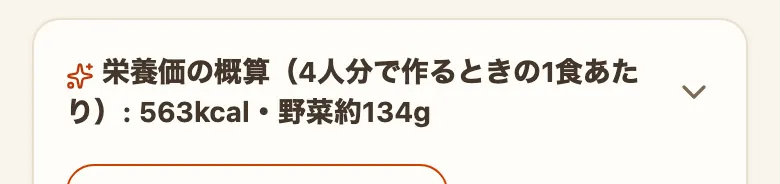
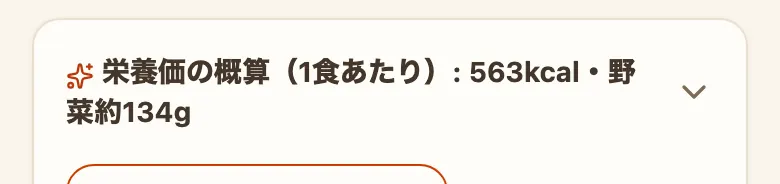
「1食あたり」から人数分の繰り返しを外す＋原価の注記から「これより高くなります」を省く＋長い説明を箇条書きに（便KN）
オーナーの書き溜め3件。

① レシピ詳細「◯人分で作るときの1食あたり」→「1食あたり」
   食費（detail.pricePerServing）と栄養の要約（nutrition.summaryLabel）の両方。
   人数分は同じ画面に残っている（390×844で実測: 1食あたりの行 y=362 /
   人数ステッパー「2人分」y=520 / 「登録: 2人分」y=574。スクロールなしで3つとも見える）。

② 「実際はこれより高くなります」を省く（detail.costPricelessNote）
   合計には、書かれた分量を使わない仮置きの金額も混ざっている（便KEが「1回に使う量」で
   登録した塩・こしょう・ごま・揚げ油など）。同梱109品の実測で783行中93行・74品。
   多くも少なくも外れるので、実際より高いとは言い切れない。
   言い方は月間の献立の注記（mealPlan.weekCostPriceless）と同じにそろえた。

③ 実質箇条書きになっている長い説明を箇条書きに
   ja.ts の全文言を機械的に掃いて22件を検出し、そのうち2件を行に分けた。
   ・mealPlan.monthLockedDescription（185字・5文）→ monthLockedDescriptionLines（5行）
   ・shopping.candidateDescription（113字・3文）→ candidateDescriptionLines（3行）
   文言そのものは書き換えず「。」で切っただけ。文頭の「・」は画面側が付ける（aria-hidden）。
   残る20件は理由つきで scripts/data/ja-bullet-known.json に記録。

見張り（scripts/test-logic.mjs・直す前に9件が赤になることを確認済み）:
   KN-1 人数分の繰り返しが無い＋人数分が画面から消えていない
   KN-2 「高くなります」と言い切らない＋仮置きの金額が実在することを実データで測る
   KN-3 実質箇条書きの見つけ方（40字以上・3文以上・文頭に印なし）と既知一覧の突き合わせ

ついでに直したもの:
   scripts/shots-manual.mjs が2026-08-22 便JF・⑤（週の表示のしかたがプルダウン化）以降
   803行で止まり、スクショが1枚も撮れなくなっていた。selectで選ぶ形に直し、
   文言を変えた nutrition-row.webp を撮り直した。

Changed region(s): [[0.0615, 0.5163, 0.5538, 0.7065], [0.3692, 0.2989, 0.8308, 0.462]]

diff --git a/src/i18n/ja.ts b/src/i18n/ja.ts
@@ -983,8 +983,19 @@ export const ja = {
     // 「月の画面から」と場所を明示して書く（メモ・テンプレート・献立表は週タブでも使えるので、
     // Pro限定の機能として売らない＝規約H・購入判断の面の信頼性）。
     // 過ぎた日の見え方（未達の予定は出さず記録だけ残す）も1文で先に伝える
-    monthLockedDescription:
-      'カレンダーで先の予定まで組み立てられます。作った日は写真付きの記録が残り、月ごとの食費や栄養の概算もまとめて振り返れます。月の画面からは、予定をそのまま追加・変更でき、その日のメモ（外食・実家など）や、1か月分の献立表の印刷・画像保存も使えます。まだ決まっていない日には、献立をまとめて提案できます。過ぎた日は作った記録だけが残ります（作らなかった予定は表示しません）。',
+    // 2026-08-25 便KN・オーナー指示（原文「アプリ全体として、長い説明は、箇条書きにできるところは
+    // 箇条書きにして。今は実質箇条書きなのに文頭に何もないのでわかりづらい。」）:
+    // 185字・5文の1段落だった。5文はどれも「月の画面でできること」の並びで、
+    // 続けて読ませる意味が無い＝実質箇条書き。文はそのままに、5行へ分けた
+    // （文言そのものは書き換えていない。文頭の「・」は画面側が付ける）。
+    // 見張りは scripts/test-logic.mjs の KN-3
+    monthLockedDescriptionLines: [
+      'カレンダーで先の予定まで組み立てられます',
+      '作った日は写真付きの記録が残り、月ごとの食費や栄養の概算もまとめて振り返れます',
+      '月の画面からは、予定をそのまま追加・変更でき、その日のメモ（外食・実家など）や、1か月分の献立表の印刷・画像保存も使えます',
+      'まだ決まっていない日には、献立をまとめて提案できます',
+      '過ぎた日は作った記録だけが残ります（作らなかった予定は表示しません）',
+    ],
     // 恒常のお試し(2026-08-02 便CP-2・docs/62 決定③): 空のカレンダーを試用させるのではなく、
     // 本人の記録・献立が入った本物の月タブを1回だけフル表示する。閉じたらロック表示に戻る。
     // 2026-08-02 オーナー指示: すぐ上の説明で何が見られるかは伝わっているので、ボタンは動作だけを短く書く
@@ -2357,8 +2368,14 @@ export const ja = {
     // 生成ボタン・下書きセクションの文言(2026-07-24 実機FB #14: 「候補」より下書きだと分かる語に統一)
     makeCandidates: '下書きを作る',
     candidateTitle: '買い物メモ（下書き）',
-    candidateDescription:
-      '内容を確認してチェックを入れ、「買い物メモに追加」を押すと確定します。数量は、選んだレシピの食数（献立から作った場合は、その週の献立に入っている食数の合計）から自動計算したものです。下書きは、しばらく他の画面へ移っても残ります',
+    // 2026-08-25 便KN・オーナー指示（長い説明は箇条書きに）: 113字・3文の1段落だった。
+    // 3文は「確定のしかた」「数量の出どころ」「下書きがいつまで残るか」で、互いに続きではない
+    // ＝実質箇条書き。文はそのままに3行へ分けた（文頭の「・」は画面側が付ける）
+    candidateDescriptionLines: [
+      '内容を確認してチェックを入れ、「買い物メモに追加」を押すと確定します',
+      '数量は、選んだレシピの食数（献立から作った場合は、その週の献立に入っている食数の合計）から自動計算したものです',
+      '下書きは、しばらく他の画面へ移っても残ります',
+    ],
     candidateEmpty: '選んだレシピの材料は、食材の在庫で「ある」に登録済みのようです',
     // 2026-08-22 便IX: 材料を1件も登録していないレシピ(料理名と手順だけのレシピ)だけを選んだとき。
     // 上の candidateEmpty をそのまま出すと「在庫にある」と言うことになり、事実と違う
@@ -4508,9 +4525,12 @@ export const ja = {
     priceYen: '円',
     // 1食あたりの概算食費(2026-07-14 オーナー実機フィードバック: 合計だけでなく
     // 1食分の目安も見たい。{n}=合計÷表示中のservingsを丸めた値)。
-    // 2026-07-28 便BY/COST-03: 何人分を1食に分けた額なのかを常時添える({s}=表示中の人数)。
-    // 「1食あたり」だけだとレシピ全量の値と読まれ、金額・塩分が実感と合わないと受け取られていた
-    pricePerServing: '{s}人分で作るときの1食あたり 約{n}円',
+    // 2026-08-25 便KN・オーナー指示(原文「◯人分で作るときの１食あたり→１食あたり」):
+    // 2026-07-28 便BY/COST-03 が付けた「{s}人分で作るときの」を外した。人数分は同じ画面の
+    // 材料の見出し行(人数ステッパー)と、そのすぐ下の「登録: ◯人分」に出ているので、
+    // 金額の行でもう一度言うと、同じ数字を1画面で3回読ませることになる。
+    // 見張りは scripts/test-logic.mjs の KN-1(人数分が画面から消えたら赤になる)
+    pricePerServing: '1食あたり 約{n}円',
     // 価格が分からない材料があるときに、金額のうしろに付ける印（2026-08-22 便JG）。
     // オーナー原文「『価格なし』が複数ある場合には、目安とはいえ実際と大きく異なることを
     // 記号でお知らせして欲しい」「NG食材の表記と場所の取り合いになる？」。
@@ -4518,9 +4538,15 @@ export const ja = {
     // 場所を取り合わない（札を増やすと行が折り返し、時間・手間・季節の並びが崩れる）
     costRoughMark: '※',
     // 上の印の意味を、金額のすぐ下（1食あたりの行の次）に1行で書く。
-    // 価格が分からない材料の分は合計に1円も入っていない＝必ず実際より安く出る、を言い切る。
-    // 「価格が分からない材料{n}件」の言い方は月間の献立の注記(mealPlan.weekCostPriceless)と揃える
-    costPricelessNote: '価格が分からない材料{n}件を除いた概算です。実際はこれより高くなります',
+    // 言い方は月間の献立の注記(mealPlan.weekCostPriceless)と同じにそろえる。
+    // 2026-08-25 便KN・オーナー指示(原文「塩などは価格はない場合には仮置きして値段が入っていた。
+    // 必ずしも高くはならないので、「これより高くなります」は省く。」):
+    // 「実際はこれより高くなります」を外した。除いた材料の分だけなら確かに安く出るが、
+    // 同じ合計には**書かれた分量を使わずに入れた仮置きの金額**も混ざっている
+    // (2026-08-23 便KEが「1回に使う量」で登録した塩・こしょう・ごま・揚げ油など。
+    //  同梱109品の実測で783行中93行・74品に入っている)。仮置きは多くも少なくも外れるので、
+    // 合計が実際より高いか安いかは決まらない。見張りは scripts/test-logic.mjs の KN-2
+    costPricelessNote: '価格が分からない材料{n}件を除いた概算です',
     // 材料行ごとの原価ビュー切り替え(2026-07-15 オーナー要望「どの食材が値段に反映されて
     // いるかが分からない」への対応。常時表示は「うるさい」で2026-07-14に廃止済みのため、
     // 見出し行のチップで表示・非表示を切り替える方式にした。既定は非表示)。
@@ -4811,12 +4837,13 @@ export const ja = {
     gateLink: 'Pro版について見る',
     // 折りたたみ(2026-07-11 オーナー実機フィードバック: 面積を取りすぎるため既定は1行のみ)。
     // 「{title}{summaryLabel}{数値}」の順で1行に組み立てる。
-    // 2026-07-28 便BY/COST-03: 何人分を1食に分けた値なのかを常時添える({s}=表示中の人数)。
-    // 原価側のpricePerServingと同じ言い方に揃える
     // 2026-08-01 線引きB': 折りたたんだ1行に塩分は出さない（塩分はPro側の8項目表へ）。
     // 2026-08-02 オーナー指示: 無料で見える2項目にそろえ、エネルギーに野菜量を並べる
     // （「498kcal・野菜約120g」。値の文言は nutritionBalance.summaryVegetable を共用する）
-    summaryLabel: '（{s}人分で作るときの1食あたり）: ',
+    // 2026-08-25 便KN・オーナー指示: 2026-07-28 便BY/COST-03 が付けた「{s}人分で作るときの」を
+    // 外した。人数分は同じ画面の人数ステッパーと「登録: ◯人分」に出ている。原価側の
+    // detail.pricePerServing と同じ言い方に揃えたまま短くしている
+    summaryLabel: '（1食あたり）: ',
     // 材料が丸ごと計算対象外などで1食あたりが実質求まらないときの1行表示(「0kcal」という
     // 誤解を招く数値を出さないためのフォールバック)
     unavailableSummary: '材料からは計算できませんでした',

diff --git a/src/pages/MealPlanPage.tsx b/src/pages/MealPlanPage.tsx
@@ -7963,7 +7963,19 @@ export default function MealPlanPage({ demo }: { demo?: MonthDemoData }) {
                   {ja.mealPlan.monthLockedBadge}
                 </span>
                 <p className="mt-1 font-bold">{ja.mealPlan.monthLockedTitle}</p>
-                <p className="text-sm text-ink-muted">{ja.mealPlan.monthLockedDescription}</p>
+                {/* 2026-08-25 便KN・オーナー指示（長い説明は箇条書きに）: 185字の1段落を5行に分け、
+                    文頭に「・」を付ける。この枠は中央そろえだが、箇条書きは行頭がそろっていないと
+                    印の意味が無いので、この一覧だけ左そろえにする（枠の幅いっぱいは使わず
+                    inline-block で中身の幅にとどめる＝枠の中では今までどおり中央に乗る）。
+                    印は飾りなので読み上げには渡さない（aria-hidden） */}
+                <ul className="mx-auto mt-0.5 inline-block space-y-0.5 text-left text-sm text-ink-muted">
+                  {ja.mealPlan.monthLockedDescriptionLines.map((line) => (
+                    <li key={line} className="flex gap-1.5">
+                      <span aria-hidden>・</span>
+                      <span className="min-w-0">{line}</span>
+                    </li>
+                  ))}
+                </ul>
                 {/* 恒常のお試し(2026-08-02 便CP-2・docs/62 決定③)。押すと、この画面のサンプルではなく
                     本人の記録・献立が入った本物の月タブが1回だけフル表示になる（閉じたらここへ戻る）。
                     2026-08-02 オーナー指摘: 「作った記録」が少ないうちは入口を出さず、

diff --git a/src/pages/ShoppingPage.tsx b/src/pages/ShoppingPage.tsx
@@ -758,7 +758,17 @@ export default function ShoppingPage() {
               {showCandidateDescription ? <ChevronUp size={14} aria-hidden /> : <ChevronDown size={14} aria-hidden />}
             </button>
             <Collapse open={showCandidateDescription}>
-              <p className="mt-1 text-sm text-ink-muted">{ja.shopping.candidateDescription}</p>
+              {/* 2026-08-25 便KN・オーナー指示（長い説明は箇条書きに）: 113字の1段落を3行に分け、
+                  文頭に「・」を付ける（この画面の「買い物終了」の窓と同じ形）。
+                  印は飾りなので読み上げには渡さない（aria-hidden） */}
+              <ul className="mt-1 space-y-1 text-sm text-ink-muted">
+                {ja.shopping.candidateDescriptionLines.map((line) => (
+                  <li key={line} className="flex gap-1.5">
+                    <span aria-hidden>・</span>
+                    <span className="min-w-0">{line}</span>
+                  </li>
+                ))}
+              </ul>
             </Collapse>
             {/* どの範囲の献立から作ったか(2026-08-08 便EA)。献立の週タブで日付・食事を選べる
                 ようにしたので、下書きを見たときに範囲が分かるようにする。

diff --git a/public/about/manual.html b/public/about/manual.html
@@ -1005,7 +1005,7 @@
     <p>レシピ詳細の「栄養価の概算」の行に、その料理1食あたりの概算のエネルギー（kcal）と野菜量（g）が出ています。タップすると注記も開きます。</p>
 
     <figure class="shot" style="--w:390px">
-      <img src="/about/img/manual/nutrition-row.webp" width="780" height="184" loading="lazy" decoding="async" alt="レシピ詳細の「栄養価の概算（4人分で作るときの1食あたり）」の1行。563kcalと野菜約134gが出ていて、右端に開くための矢印が付いている">
+      <img src="/about/img/manual/nutrition-row.webp" width="780" height="184" loading="lazy" decoding="async" alt="レシピ詳細の「栄養価の概算（1食あたり）」の1行。563kcalと野菜約134gが出ていて、右端に開くための矢印が付いている">
       <figcaption>レシピ詳細の「栄養価の概算」の行（無料でお使いいただける表示）</figcaption>
     </figure>
 

diff --git a/src/pages/RecipeDetailPage.tsx b/src/pages/RecipeDetailPage.tsx
@@ -819,12 +819,12 @@ export default function RecipeDetailPage() {
         </div>
 
         {/* 1食あたりの概算食費(2026-07-14 オーナー実機フィードバック: 合計だけでなく
-            1食分の目安も見たい。表示中のservingsに追従) */}
+            1食分の目安も見たい。表示中のservingsに追従)。
+            2026-08-25 便KN: 人数分の併記をやめた（材料の見出し行の人数ステッパーと
+            「登録: ◯人分」に出ているので、この行で3回目を言わない） */}
         {totalPrice > 0 && (
           <p className="mt-0.5 text-sm text-ink-muted">
-            {ja.detail.pricePerServing
-              .replace('{s}', String(servings))
-              .replace('{n}', perServingPrice.toLocaleString())}
+            {ja.detail.pricePerServing.replace('{n}', perServingPrice.toLocaleString())}
           </p>
         )}
 

diff --git a/public/about/index.html b/public/about/index.html
@@ -777,7 +777,7 @@
       <figcaption>材料費は全体と1食あたりの両方が出ます</figcaption>
     </figure>
     <figure class="shot" style="--w: 390px;">
-      <img src="/about/img/manual/nutrition-row.webp" width="780" height="184" loading="lazy" decoding="async" alt="レシピ詳細の「栄養価の概算（4人分で作るときの1食あたり）: 563kcal・野菜約134g」の1行">
+      <img src="/about/img/manual/nutrition-row.webp" width="780" height="184" loading="lazy" decoding="async" alt="レシピ詳細の「栄養価の概算（1食あたり）: 563kcal・野菜約134g」の1行">
       <figcaption>カロリーと野菜量は1食あたりで出ます</figcaption>
     </figure>
 

diff --git a/src/components/NutritionTeaser.tsx b/src/components/NutritionTeaser.tsx
@@ -137,7 +137,9 @@ export default function NutritionTeaser({
           <span className="min-w-0 flex-1 text-sm font-bold">
             <Sparkles size={14} className="mr-1 inline-block shrink-0 text-accent-ink" aria-hidden />
             {ja.nutrition.title}
-            {ja.nutrition.summaryLabel.replace('{s}', String(displayServings))}
+            {/* 2026-08-25 便KN: 「◯人分で作るときの1食あたり」→「1食あたり」。
+                人数分はレシピ詳細の人数ステッパーと「登録: ◯人分」に出ている */}
+            {ja.nutrition.summaryLabel}
             {summaryText}
             {canShowSummary && (saltGap || materialGap) && (
               <span
